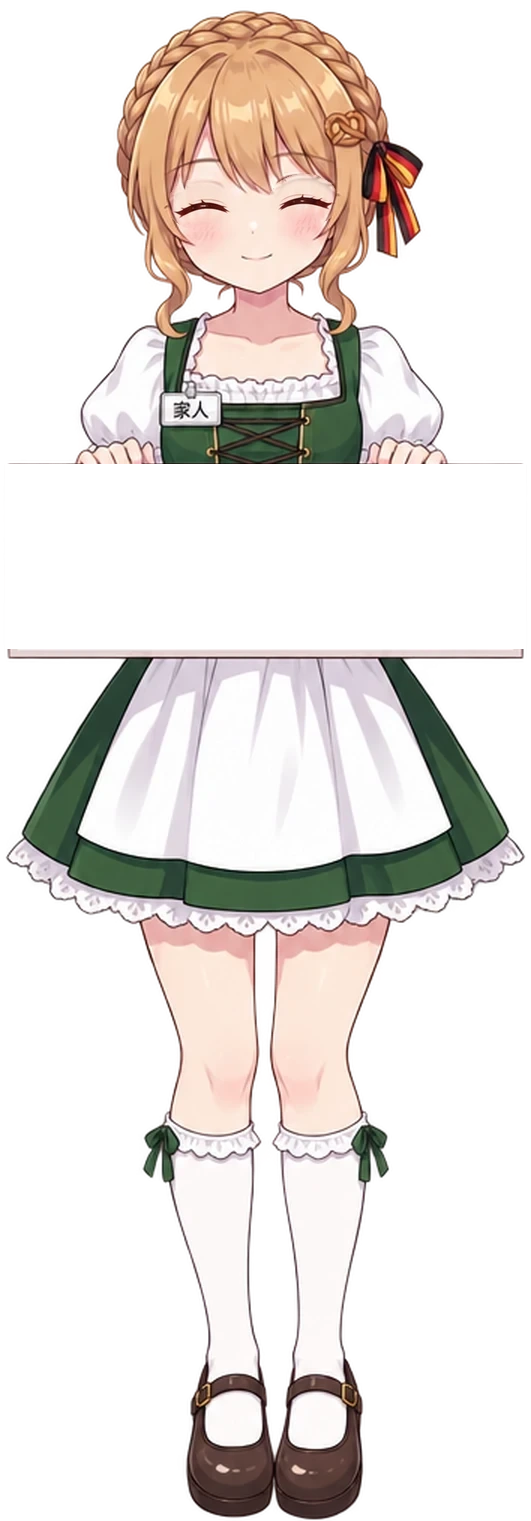
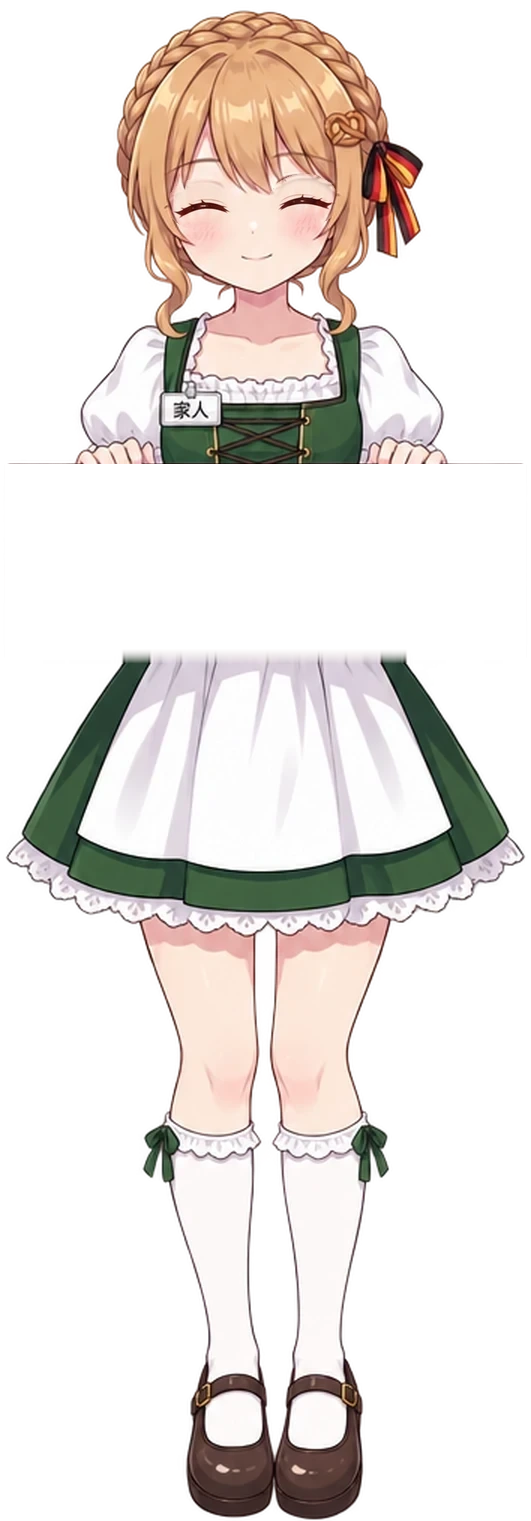
anime: 立绘下半身露出来（看板定高+板内滚动）、修掉悬空手指与牌下沿残线
用户反馈两处：
1) 「为什么下半身没了」——旧版看板从人物层下方一直铺到卡片底，把立绘下半部整个盖住，
   拆层时的人物层也只画到牌子下沿。
2) 卡片外/页面概览区出现「悬空的几根手指」。

改法：
- 卡壳补 position: relative：双手层是绝对定位，之前锚到了 body，四台卡的手一起飘到页面顶部。
- 人物层画满整身高（不再裁到 --cast-cut），看板改为定高（手机 140 / 桌面 150px，
  --cast-board-h），板下沿以下重新露出裙摆/大腿/袜/鞋；板装不下的数据在板内竖滚。
- 底部占位层 .anime-legs 改成透明撑高层，保证卡片总高 = 立绘高，下半身不被卡沿裁掉。
- 拆层脚本补 repair_plate_edge()：抹掉清矩形漏掉的「牌子下沿倒角 + 描边线」
  （收起态会横贯人物），人物层与闭眼帧都就地修过。
- 守卫同步：anime_cast_test.go / ui-smoke.mjs 断言新几何（立绘整身高、看板定高、
  板内滚动、卡壳定位）；hands 层补 data-bleed（它本来就通铺到卡沿）。

验收：go test ./... ok；card-overflow-check（TZA_SKIN=anime，本地）PASS；
tza-ui-regression.sh PRESENTATION_OK + UI_SMOKE_OK；gpt-6.1-sol 逐台看图全部接受。

Changed region(s): [[0.0, 0.4017, 0.9944, 0.4326]]

diff --git a/web/anime.css b/web/anime.css
@@ -601,14 +601,15 @@ html[data-skin="anime"][data-theme="dark"] ::-webkit-scrollbar-thumb {
 html[data-skin="anime"] .anime-stage {
   display: block;
   /* 相对定位 + z-index:1：HTML 看板（z-index 2）与双手层（z-index 3）都压在它上面。
-     层级只在这张卡自己的层叠上下文里比（卡壳是 position: relative），不越过卡片。 */
+     层级只在这张卡自己的层叠上下文里比（卡壳现在是 position: relative，见下面 .node-card 那条），不越过卡片。 */
   position: relative;
   z-index: 1;
   /* 卡片自己有 22px 内边距，立绘层要通铺到卡片边（圆角交给卡片的 overflow:hidden 裁） */
   margin: -22px -22px 16px;
-  /* 摊开时只露「头顶 → 她手里那块牌子的下沿」（--cast-cut）：牌面以下交给 HTML 看板 */
-  height: calc(var(--cast-figure-h, 720px) * var(--cast-cut, 0.44));
-  overflow: hidden;   /* 牌子以下那半身裁掉；眨眼层也是靠这个裁（它是全高） */
+  /* 画满整身高（头顶 → 脚）：看板只盖住「牌子」那一段，牌子以下的裙/腿/袜/鞋仍然画出来、
+     在看板下沿以下露出来（用户反馈过「下半身没了」）。 */
+  height: var(--cast-figure-h, 720px);
+  overflow: hidden;   /* 眨眼层也在这层里（它是全高），圆角靠卡片裁 */
   background-image: var(--cast-art-url);
   background-repeat: no-repeat;
   background-position: top center;
@@ -652,6 +653,11 @@ html[data-skin="anime"] .node-card {
   background: var(--anime-sign);
   border: 1px solid var(--anime-sign-line);
   box-shadow: var(--anime-shadow-sm);
+  /* 卡壳必须是**定位元素**：双手层 .anime-hands 是绝对定位（top:0），要相对这张卡来放。
+     基础样式表里的 .node-card 其实没有 position（anime.css 上面那句老注释写错了）；
+     漏了它，四台卡的双手层会一起去找更高的定位祖先（body），几只手就飘到页面顶上、
+     落在概览那一排卡片里（用户发现「悬空的手指」）。牌子上的手一直没真正贴上去，就是这个。 */
+  position: relative;
 }
 
 html[data-skin="anime"] .node-card:hover {
@@ -689,6 +695,15 @@ html[data-skin="anime"] .node-card[data-cast] {
   background-image: var(--cast-motif);
   background-size: var(--cast-motif-size);
   border-color: var(--cast-line);
+}
+
+/* 看板高度：板定高、板内数据滚动（见上面 .card-body 与滚动区两条），板下沿以下留给立绘下半身。
+   板下沿越低、露出的下半身越多；实测（四台构图一致）：板底取到裙摆下沿稍上，才能同时看到
+   裙摆 + 腿 + 袜 + 鞋，且不切断裙褶。手机（立绘 620）板 140、桌面（立绘 720）板 150。
+   收起态板只剩头部：2px 边框 + 8px 内边距 + 28px 名字行 + 8px + 2px = 48px。 */
+html[data-skin="anime"] .node-card[data-cast] {
+  --cast-board-h: 140px;
+  --cast-board-h-roll: 48px;
 }
 
 /* JP-NoSla-Gen2 · 家人云 × 日本：樱花粉牌面 + 极淡花瓣点 */
@@ -854,6 +869,29 @@ html[data-skin="anime"] .node-grid.node-list .anime-stage {
 html[data-skin="anime"] .node-grid.node-list .anime-hands {
   display: none;
 }
+html[data-skin="anime"] .node-grid.node-list .anime-legs {
+  display: none;
+}
+
+/* --------------------------------------------------------------------------
+   N+3b. ④ 下半身占位层（.anime-legs）
+
+   人物层（.anime-stage）现在画满整身高，看板（.card-body）只盖住「牌子」那一段；
+   牌子以下的裙 / 腿 / 袜 / 鞋由人物层自己画出来、在看板下沿以下露出来——不需要再叠一层图。
+   这一层只干一件事：**把卡片撑到整身高**。卡片是 flex 纵向排布，看板有负 margin、把流程
+   往上拉，所以「看板底边」就在流程的末端；没有这一层，卡片会在看板下沿处收口，把她的下半身裁掉。
+   高度 = figure-h × (1 − board-t) − 看板高 = 看板下沿 → 立绘脚底那一段。
+   pointer-events: none：不抢板面 / 数据行 / 「详细」按钮的点击。
+   -------------------------------------------------------------------------- */
+html[data-skin="anime"] .anime-legs {
+  display: block;
+  position: relative;
+  z-index: 1;
+  flex: 0 0 auto;
+  margin: 0 -22px;
+  height: calc(var(--cast-figure-h, 720px) * (1 - var(--cast-board-t, 0.30)) - var(--cast-board-h, 140px));
+  pointer-events: none;
+}
 
 /* --------------------------------------------------------------------------
    N+4. ② HTML 看板：板面上排节点数据
@@ -872,22 +910,59 @@ html[data-skin="anime"] .node-card[data-cast] .card-body {
   position: relative;
   z-index: 2;
   box-sizing: border-box;
+  display: flex;
+  flex-direction: column;
+  gap: 6px;
+  flex: 0 0 auto;
   width: calc(100% - 2px);
   min-width: 0;
   max-width: 100%;
-  margin: calc((var(--cast-board-t, 0.30) - var(--cast-cut, 0.44)) * var(--cast-figure-h, 720px) - 16px) 1px 0;
-  /* 上内边距 27px 让名字行的中心落在板外上沿下方 44px（3px 边框 + 27 + 28/2）——
-     收起 / 展开同一坐标，折叠只影响下面的数据。 */
-  padding: 27px 15px 16px;
-  border: 3px solid #cdb7b4;
+  /* 看板上沿 = 立绘高度的 --cast-board-t（画里那块牌子的上外沿，她双手搭在那儿）。
+     人物层现在画满整身高、下外边距 16，所以负 margin = −(1 − board-t) × figure-h − 16。 */
+  margin: calc((var(--cast-board-t, 0.30) - 1) * var(--cast-figure-h, 720px) - 16px) 1px 0;
+  /* 板高固定（--cast-board-h）：板以上的数据在板内滚动（见 N+4b），板以下露出她的下半身。
+     定高才能保证「板下沿」是一个可算的量，人物下半身露在哪一段就由它决定。 */
+  height: var(--cast-board-h, 140px);
+  padding: 8px;
+  border: 2px solid #cdb7b4;
   /* 圆角交给皮肤的统一尺度（html[data-skin="anime"] * 的 --anime-radius，14px）：这块板和其他面
      一样是「二次元的大圆角」，也接近 gpt 方案里的 12px。 */
+  border-radius: 14px;
   background: #fffdfb;
+  overflow: hidden;
 }
 html[data-skin="anime"][data-theme="dark"] .node-card[data-cast] .card-body {
   background: #26242a;
   border-color: #4b434a;
 }
+
+/* 板内滚动区：板高定死之后，剩下的数据（地区 / 资源 / 流量 / 到期 / 延迟 / 三网回程）在这块里
+   竖着滚（gpt-6.1-sol 定的方案：宁可板内滚动，也要把立绘下半身让出来）。细滚动条当提示，
+   不遮住内容；滚到哪一屏都还在板面以内，数据不会挂到板外。 */
+html[data-skin="anime"] .node-card[data-cast] .card-body > [id] {
+  flex: 1 1 auto;
+  min-height: 0;
+  overflow-y: auto;
+  overscroll-behavior: contain;
+  scrollbar-width: thin;
+  scrollbar-color: rgb(0 0 0 / 0.22) transparent;
+}
+html[data-skin="anime"][data-theme="dark"] .node-card[data-cast] .card-body > [id] {
+  scrollbar-color: rgb(255 255 255 / 0.24) transparent;
+}
+html[data-skin="anime"] .node-card[data-cast] .card-body > [id]::-webkit-scrollbar { width: 4px; }
+html[data-skin="anime"] .node-card[data-cast] .card-body > [id]::-webkit-scrollbar-track { background: transparent; }
+html[data-skin="anime"] .node-card[data-cast] .card-body > [id]::-webkit-scrollbar-thumb {
+  background: rgb(0 0 0 / 0.22);
+  border-radius: 3px;
+}
+html[data-skin="anime"][data-theme="dark"] .node-card[data-cast] .card-body > [id]::-webkit-scrollbar-thumb {
+  background: rgb(255 255 255 / 0.24);
+}
+
+/* 头部（状态点 + 名字 + 折叠箭头 + 标签）固定在板顶，不跟着数据滚：名字两态落在同一个坐标。
+   卡片头在板内的上偏移 = 2px 边框 + 8px 内边距，展开 / 收起都一样。 */
+html[data-skin="anime"] .node-card[data-cast] .card-top { margin-bottom: 0; flex: 0 0 auto; }
 
 /* 名字固定在板面正中：水平居中、两态同一坐标。状态点与折叠箭头都绝对定位在两端，
    不参与居中，所以名字的横向中心就是板面的中心。 */
@@ -954,14 +1029,19 @@ html[data-skin="anime"] .detail-open {
 html[data-skin="anime"] .detail-open:hover { border-color: var(--cast-accent, #e8457c); }
 
 /* --------------------------------------------------------------------------
-   N+5. 收起态：只把板压到「画里那块牌子」那么高，别的都不动
+   N+5. 收起态：板压到只剩头部（名字 + 状态点 + 折叠箭头）
 
-   名字在板面正中的同一坐标（板沿、板高、内边距都没变），双手层还压在板沿上，
-   人物层还是露到牌子下沿 —— 折叠影响的只有板面上其余的内容/数据。
+   看板上沿不动（--cast-board-t 的坐标没变）、板内名字行在板内的上偏移也没变
+   （都是 2px 边框 + 8px 内边距），所以名字两态落在同一个坐标；
+   折叠影响的是板高与板内的数据（数据整块 display:none），以及下半身占位层跟着补足高差
+   —— 卡片总高恒等于整身高，立绘不会被压低、也不会在板沿处被裁。
    -------------------------------------------------------------------------- */
 html[data-skin="anime"] .node-card[data-cast][data-rolled="true"] .card-body {
-  height: calc(var(--cast-figure-h, 720px) * (var(--cast-cut, 0.44) - var(--cast-board-t, 0.30)));
+  height: var(--cast-board-h-roll, 48px);
   overflow: hidden;
+}
+html[data-skin="anime"] .node-card[data-cast][data-rolled="true"] .anime-legs {
+  height: calc(var(--cast-figure-h, 720px) * (1 - var(--cast-board-t, 0.30)) - var(--cast-board-h-roll, 48px));
 }
 html[data-skin="anime"] .node-card[data-cast][data-rolled="true"] .card-body > [id] { display: none; }
 html[data-skin="anime"] .node-card[data-cast][data-rolled="true"] .card-top .card-actions { display: none; }
@@ -1046,5 +1126,13 @@ html[data-skin="anime"][data-theme="dark"] .node-card:not([data-cast]) .card-bod
 @media (max-width: 380px) {
   html[data-skin="anime"] .node-card[data-cast] {
     --cast-figure-h: 620px;
+  }
+}
+
+/* 桌面（视口 >380px）：立绘 720、看板 150（`--cast-board-h` 的默认是手机的 140）。
+   板高只影响「板下沿落在立绘的哪一行」，即下半身露出多少；两档都是「露到裙摆、还能看到腿」。 */
+@media (min-width: 381px) {
+  html[data-skin="anime"] .node-card[data-cast] {
+    --cast-board-h: 150px;
   }
 }

diff --git a/web/app.js b/web/app.js
@@ -854,7 +854,7 @@ function gridInner(n) {
   // 其余皮肤下 .anime-stage / .anime-hands 都是 display:none（见 styles.css）。
   //
   // 三层顺序就是这个函数返回的顺序 = DOM 顺序 = 看到的先后：
-  //   ① 人物层 .anime-stage（图里已经没有了那块牌子与双手，牌子那块矩形是透明的）
+  //   ① 人物层 .anime-stage（图里已经没有了那块牌子与双手，牌子那块矩形是透明的；现在画满整身高）
   //   ② HTML 看板 .card-body（板面、板沿、节点数据都是 HTML 自己画的）
   //   ③ 双手层 .anime-hands（带 alpha 的手，z-index 压在看板上沿）
   // 于是看板上沿是 HTML 的边框，原图那块牌子的描边再也透不出来；手仍然是从板上面搭下来的。
@@ -864,7 +864,12 @@ function gridInner(n) {
   const stage = cast
     ? `<div class="anime-stage" data-cast="${cast}" data-bleed role="img" aria-label="线路机角色立绘"><span class="anime-blink" data-bleed aria-hidden="true"></span></div>`
     : "";
-  const hands = cast ? `<div class="anime-hands" aria-hidden="true"></div>` : "";
+  // 下半身占位层：人物层画满整身高，看板只盖住「牌子」那一段，牌子以下的裙 / 腿 / 袜 / 鞋
+  // 由人物层自己画出来；但看板有负 margin、把流程往上拉，卡片会在看板下沿处收口。
+  // 这一层透明、只负责把卡片撑到整身高（高度 = 看板下沿 → 立绘脚底），下半身才不会被裁掉。
+  // 只在有立绘的节点上渲染。
+  const legs = cast ? `<div class="anime-legs" data-bleed aria-hidden="true"></div>` : "";
+  const hands = cast ? `<div class="anime-hands" data-bleed aria-hidden="true"></div>` : "";
   // 头部：状态点 + 名字 + 折叠箭头合成**一颗**按钮。点与箭头都绝对定位在两端，名字的横向中心
   // 不被它们挤动——收起 / 展开时名字落在同一坐标（折叠只影响板面上其余的内容/数据）。
   const cardTop =
@@ -877,7 +882,7 @@ function gridInner(n) {
   // 以前地址族开关、系统、架构三样都挤在第一行，卡片窄时名字被挤成三行（手机上一张卡的头部 104px）。
   // 下面紧接着的一条信息带（实时速率 + 到期 + 价格）取代了原来的两个速率方块与独立页脚。
   // 「详细」是内容里唯一能进详情页的控件（卡片空白、数据行都不再导航）。
-  return `${stage}<div class="card-body">${cardTop}<div id="body-${n.id}"><div class="detail-row"><button class="quiet detail-open" type="button" data-detail="${n.id}">详细</button></div><div class="node-sub"><p>${esc(n.region || "未设置地区")}<span> · </span>${esc(n.group || "默认分组")}</p>${familySwitch(n, f)}</div><div class="metrics-grid">${metricsInner(n)}</div>${statsBand(n, f)}${networkSections(n, f)}</div></div>${hands}`;
+  return `${stage}<div class="card-body">${cardTop}<div id="body-${n.id}"><div class="detail-row"><button class="quiet detail-open" type="button" data-detail="${n.id}">详细</button></div><div class="node-sub"><p>${esc(n.region || "未设置地区")}<span> · </span>${esc(n.group || "默认分组")}</p>${familySwitch(n, f)}</div><div class="metrics-grid">${metricsInner(n)}</div>${statsBand(n, f)}${networkSections(n, f)}</div></div>${legs}${hands}`;
 }
 
 // 列表视图：一行一台，六格横向对齐（主机 / 指标 / 网速 / 延迟 / 回程 / 计费）。

diff --git a/web/anime_cast_test.go b/web/anime_cast_test.go
@@ -89,8 +89,11 @@ func TestAnimeCastMatchesStylesheetAndAssets(t *testing.T) {
 			}
 		}
 	}
-	// 段首的「立绘层」规则必须按高度放全身像、并且裁在她手里那块牌子的下沿：background-size 用 auto + --cast-figure-h，
-	// 高度用 figure-h × --cast-cut。改回「按宽度铺满」= 她会被拉成满宽，两侧留白和牌面落点全错。
+	// 段首的「立绘层」规则必须按高度放**整身**立绘：background-size 用 auto + --cast-figure-h，
+	// 高度就是 figure-h（头顶 → 脚）。看板只盖住「牌子」那一段，牌子以下的裙 / 腿 / 袜 / 鞋
+	// 由这一层画出来、在看板下沿以下露出来（用户反馈过「下半身没了」）。
+	// 改回「按宽度铺满」= 她会被拉成满宽，两侧留白和牌面落点全错；
+	// 反过来再按 --cast-cut 裁到牌子的下沿 = 又把下半身裁掉。
 	stage := regexp.MustCompile(`(?s)html\[data-skin="anime"\] \.anime-stage \{(.*?)\n\}`).FindStringSubmatch(string(css))
 	if stage == nil {
 		t.Fatal("anime.css 里找不到 .anime-stage 的规则")
@@ -98,13 +101,28 @@ func TestAnimeCastMatchesStylesheetAndAssets(t *testing.T) {
 		body := stage[1]
 		for _, want := range []string{
 			"background-size: auto var(--cast-figure-h, 720px);",
-			"height: calc(var(--cast-figure-h, 720px) * var(--cast-cut, 0.44));",
+			"height: var(--cast-figure-h, 720px);",
 			"overflow: hidden;",
 		} {
 			if !strings.Contains(body, want) {
 				t.Errorf("anime.css 的 .anime-stage 少了 %q", want)
 			}
 		}
+	}
+	// 看板定高 + 板内数据滚动：板下沿以下留给立绘下半身（板高 --cast-board-h 决定露出多少），
+	// 板面装不下的数据在板内竖滚，不许挂到板外（上一版板外的数据就是靠这条拦住的）。
+	if !strings.Contains(string(css), "height: var(--cast-board-h, 140px);") {
+		t.Error("anime.css 的 .card-body（看板）要用 --cast-board-h 定高：板下沿以下要留给立绘下半身")
+	}
+	if !strings.Contains(string(css), ".card-body > [id] {") ||
+		!regexp.MustCompile(`(?s)\.card-body > \[id\] \{[^}]*overflow-y: auto`).MatchString(string(css)) {
+		t.Error("anime.css 的板内数据区（.card-body > [id]）要 overflow-y: auto：板装不下的数据在板内滚")
+	}
+	// 卡壳必须是定位元素：双手层（absolute, top:0）要相对这张卡放。少了 position: relative，
+	// 四台卡的双手层会一起锚到更高的定位祖先（body），几只手就飘到页面顶上的概览区
+	//（用户发现「悬空的手指」）。
+	if !regexp.MustCompile(`(?s)html\[data-skin="anime"\] \.node-card \{[^}]*position: relative`).MatchString(string(css)) {
+		t.Error("anime.css 的 .node-card 要 position: relative：双手层是绝对定位，得相对这张卡放")
 	}
 	// 眨眼要用同一个人的闭眼帧：图不在、或样式里没引用，那台机就不会眨眼（其它三台照眨，更难发现）。
 	for _, m := range ids {
